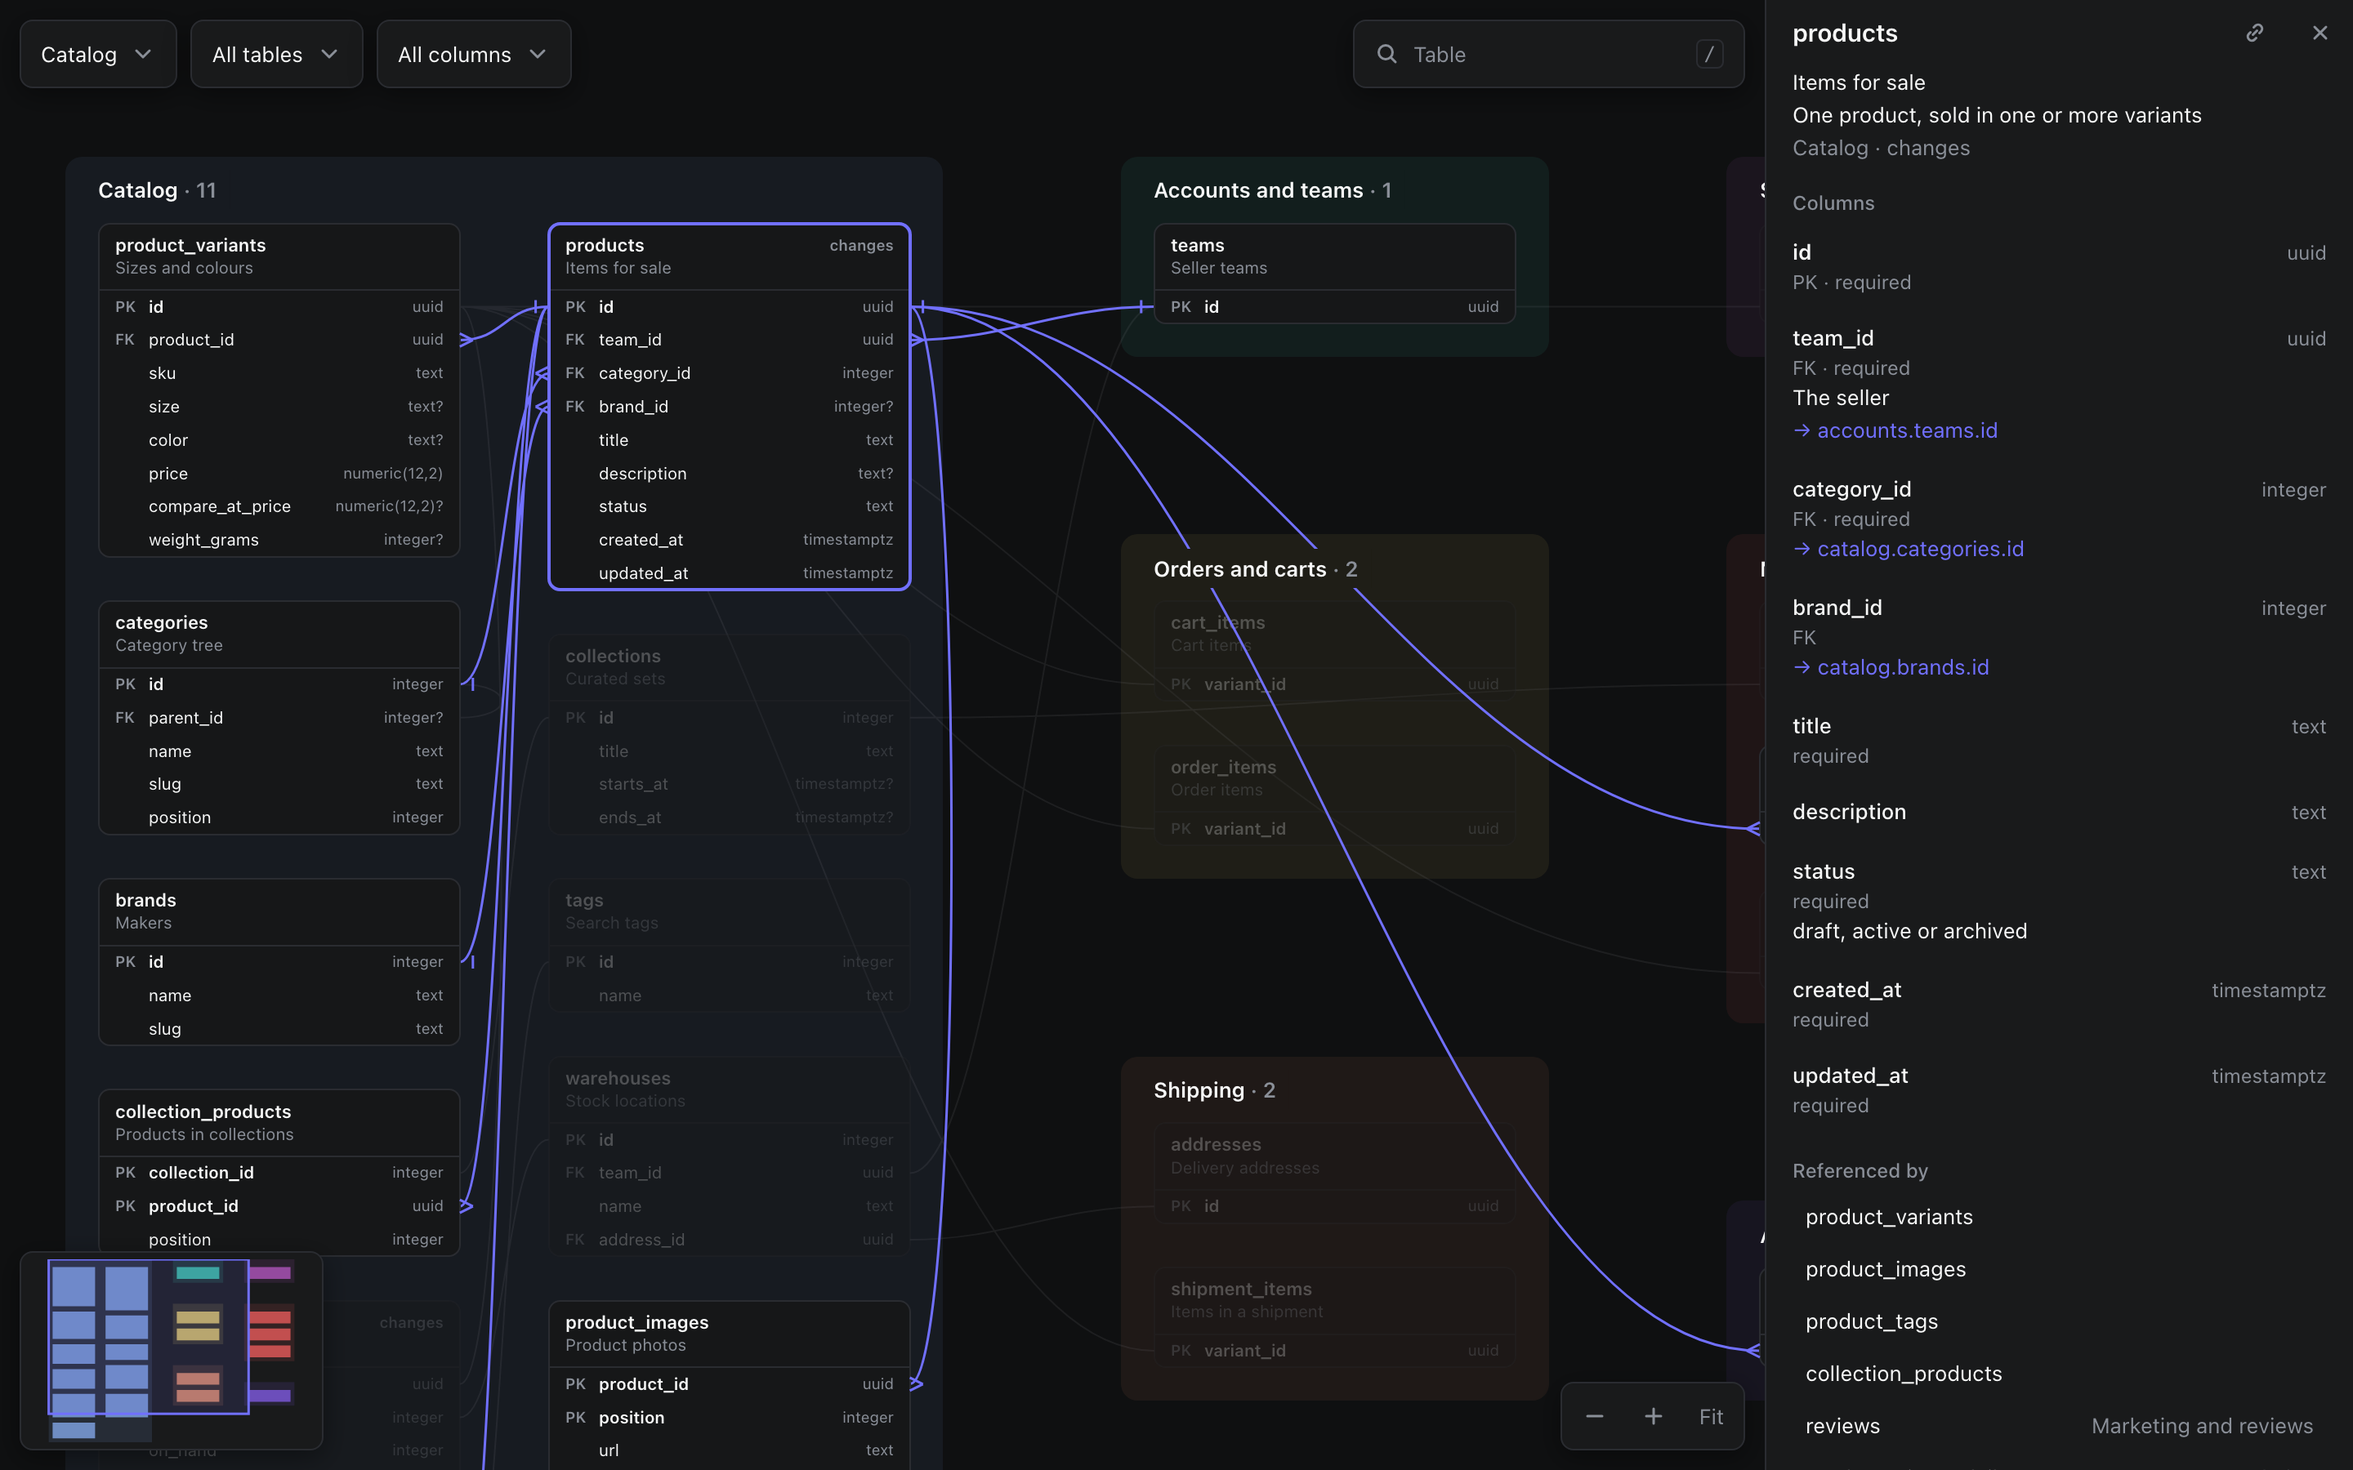
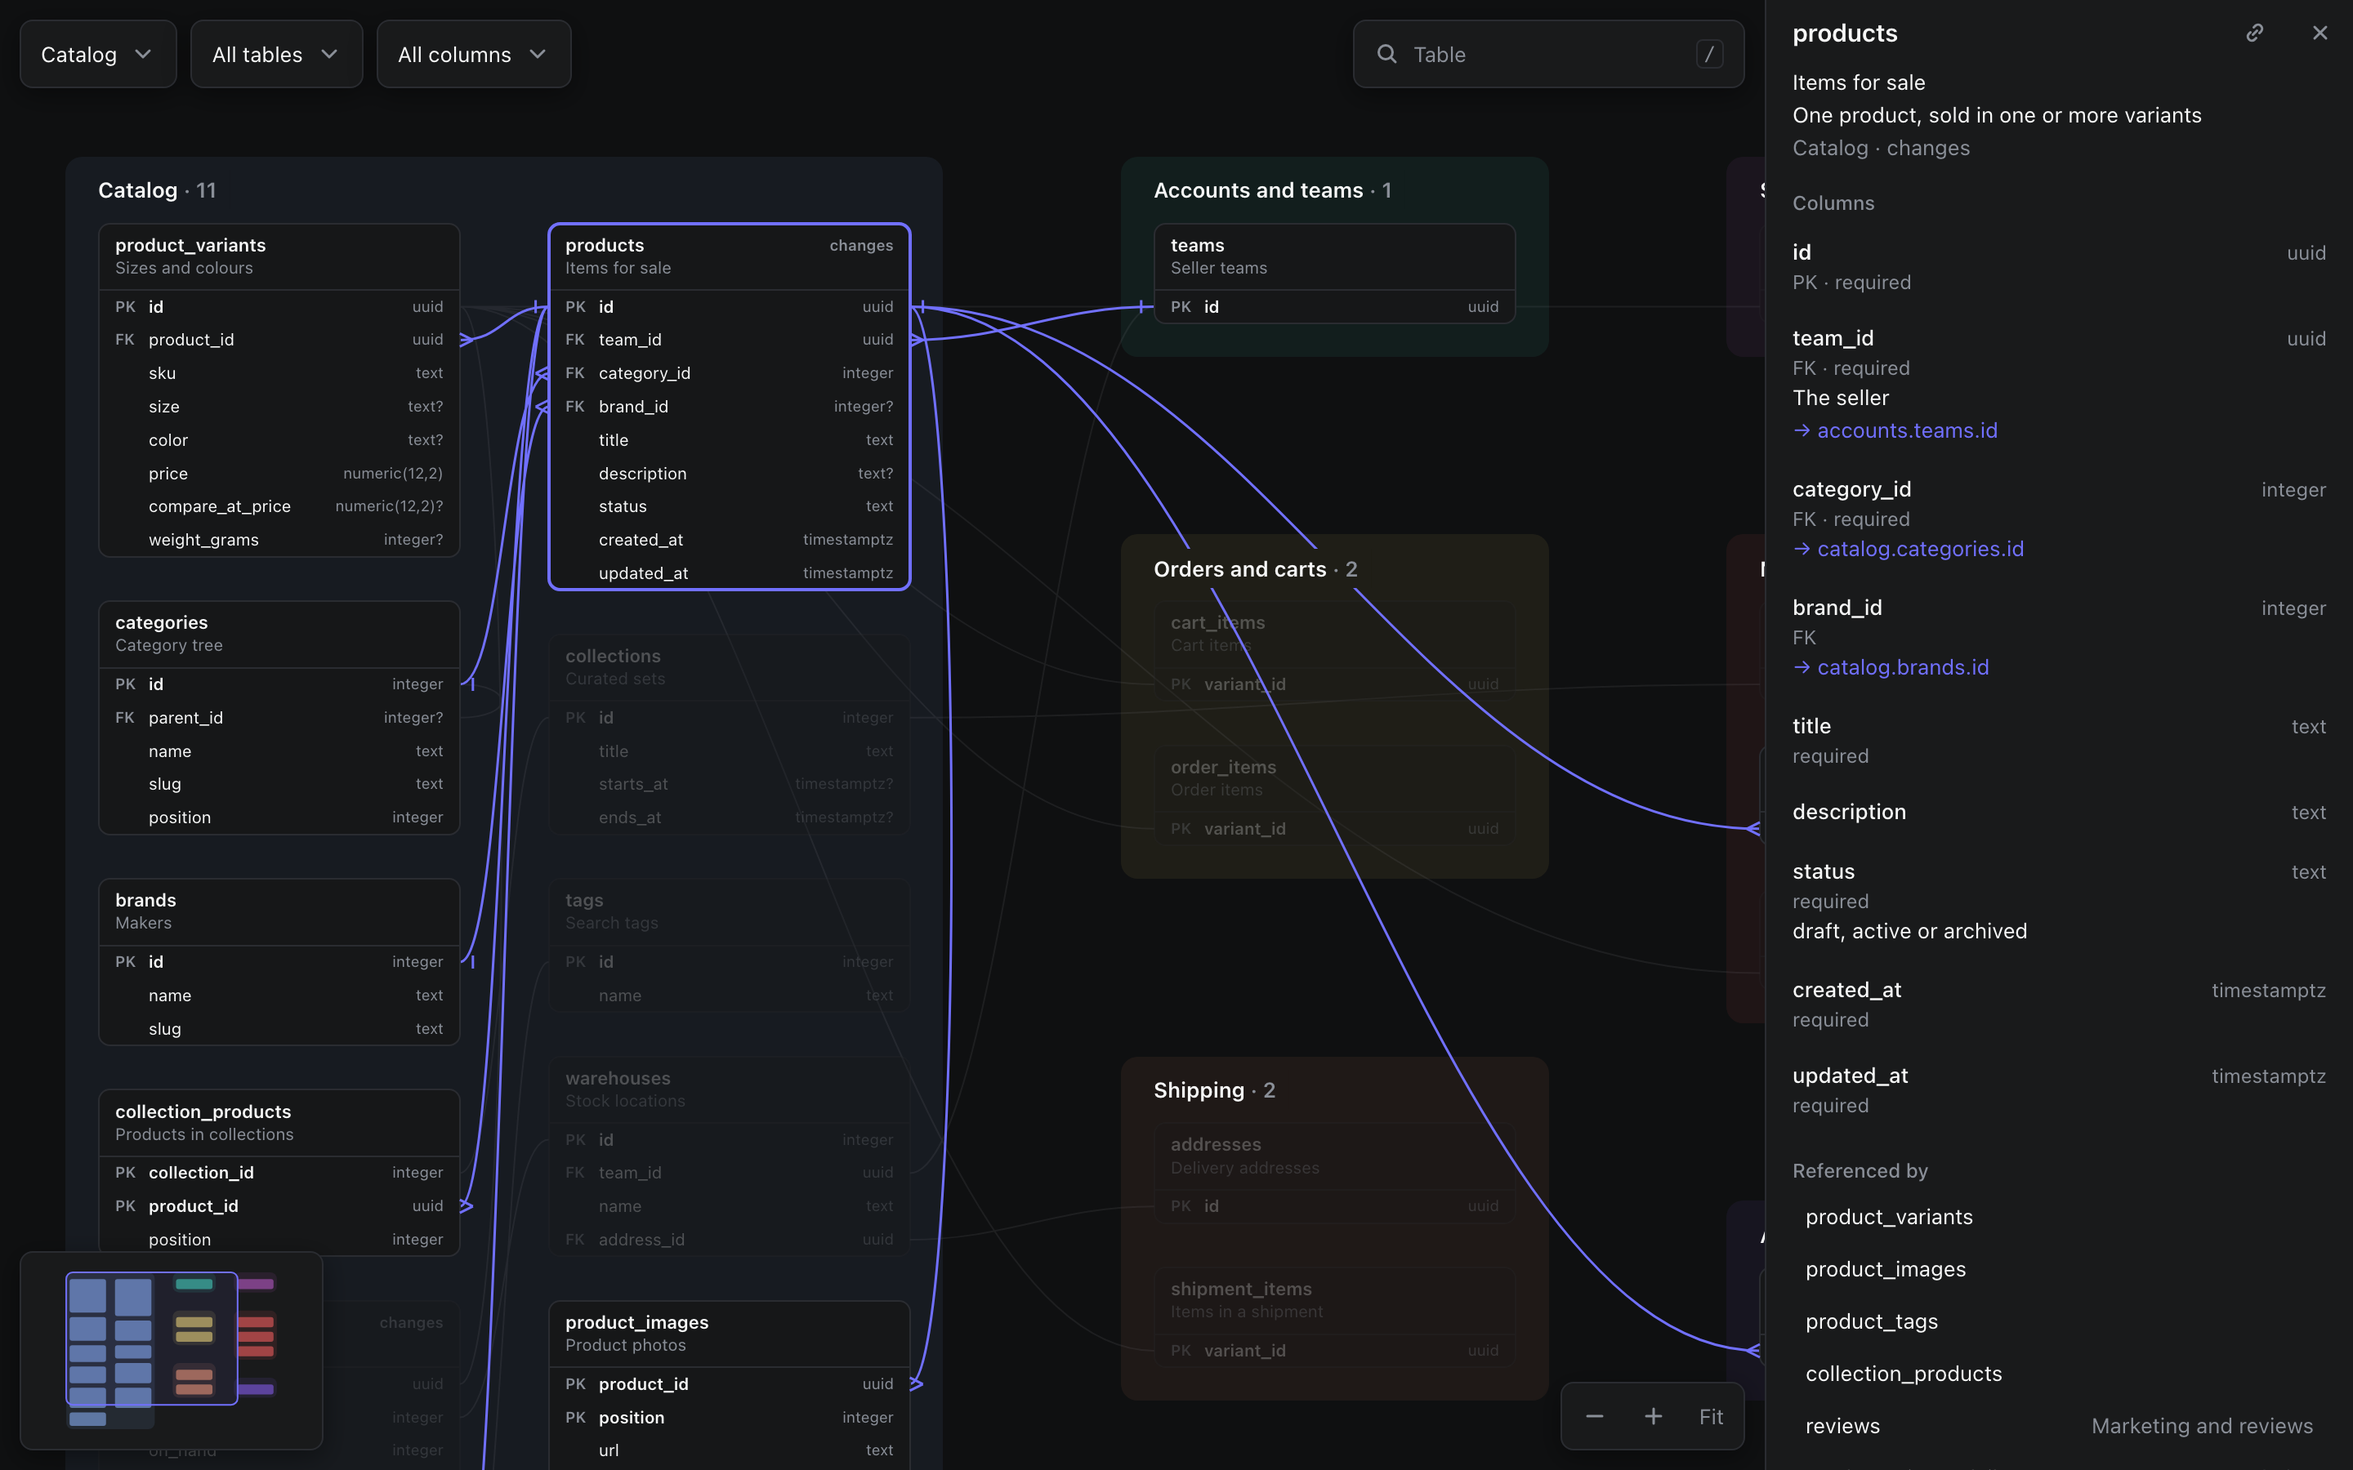
style(viewer): draw the minimap like the canvas
Module lanes with rounded corners, muted cards, an 8 px inset from the panel
edge, and a thin rounded viewport frame instead of square blocks and a thick
outline. Screenshots retaken.

Changed region(s): [[0.0, 0.84, 0.125, 0.9956]]

diff --git a/examples/storefront/diagram.html b/examples/storefront/diagram.html
@@ -373,6 +373,7 @@ const DIM_ALPHA = 0.25;
 const FONT = { table: 13, title: 12, status: 11, column: 12, type: 11, mark: 11 };
 const PAD_X = 12, MARK_W = 24;       // поле карточки слева и справа; колонка пометок PK / FK
 const NAME_Y = 16, TITLE_Y = 32;     // середины строк шапки: поле 8, имя 16, название 16, поле 8 — шапка 48
+const MINIMAP_PAD = 8;               // поле мини-карты от края её панели, в экранных пикселях
 const LABEL_H = 24, LABEL_PAD = 8;   // подпись области: высота и поле слева, в экранных пикселях
 
 const canvas = document.getElementById('canvas');
@@ -398,6 +399,7 @@ function readTheme() {
     muted: token('--color-text-muted'),
     accent: token('--color-accent'),
     // скругления и размер мини-карты — из тех же токенов, что у страницы: холст не держит своих копий чисел
+    radiusInner: parseFloat(token('--radius-inner')),
     radiusCard: parseFloat(token('--radius-outer')),
     radiusArea: parseFloat(token('--radius-area')),
     minimap: [parseFloat(token('--minimap-width')), parseFloat(token('--minimap-height'))],
@@ -529,9 +531,8 @@ const placed = [];                                    // уже нарисова
 const frame = { scale: 1, originX: 0, originY: 0, stroke: 0, cardRadius: 0, areaRadius: 0 };
 const snap = (value) => Math.round(value * frame.scale) / frame.scale;
 // скруглённый прямоугольник; в браузерах без roundRect — прямой
-const rounded = ctx.roundRect
-  ? (x, y, w, h, r) => ctx.roundRect(x, y, w, h, r)
-  : (x, y, w, h) => ctx.rect(x, y, w, h);
+const roundedIn = (c, x, y, w, h, r) => (c.roundRect ? c.roundRect(x, y, w, h, r) : c.rect(x, y, w, h));
+const rounded = (x, y, w, h, r) => roundedIn(ctx, x, y, w, h, r);
 const shape = (x, y, w, h) => rounded(x, y, w, h, frame.cardRadius);
 function visibleRows(t, y0, y1) {                     // первая и последняя строка карточки, что попадают в окно по высоте
   const { head, row } = CARD;
@@ -716,10 +717,13 @@ function drawMinimap(x0, y0, x1, y1) {
     minimapShown = !whole && minimap.clientWidth > 0;
   }
   if (!minimapShown) return;
+  // Та же схема, что на холсте, в уменьшенном виде: полосы модулей со скруглением, приглушённые карточки,
+  // поле 8 от края панели. Размеры — в пикселях мини-карты, поэтому делятся на её масштаб.
   const [cssW, cssH] = theme.minimap, dpr = view.dpr;
-  map.scale = Math.min(cssW / w, cssH / h);
+  map.scale = Math.min((cssW - 2 * MINIMAP_PAD) / w, (cssH - 2 * MINIMAP_PAD) / h);
   map.ox = (cssW - w * map.scale) / 2;
   map.oy = (cssH - h * map.scale) / 2;
+  const px = 1 / map.scale;
   const key = [diagram.code, diagram.mode, theme.background, dpr].join('|');
   if (key !== minimapKey) {                           // слой рисуется заново, только когда он изменился
     minimapKey = key;
@@ -730,16 +734,18 @@ function drawMinimap(x0, y0, x1, y1) {
     layer.fillStyle = theme.panel;
     layer.fillRect(0, 0, cssW, cssH);
     layer.setTransform(dpr * map.scale, 0, 0, dpr * map.scale, dpr * map.ox, dpr * map.oy);
-    layer.globalAlpha = 0.12;
+    layer.globalAlpha = 0.1;                          // полосы модулей, как на холсте
     for (const area of diagram.areas) {
       layer.fillStyle = moduleColor(area.module);
-      layer.fillRect(area.x, area.y, area.w, area.h);
+      layer.beginPath();
+      roundedIn(layer, area.x, area.y, area.w, area.h, theme.radiusInner * px);
+      layer.fill();
     }
-    layer.globalAlpha = 0.7;
+    layer.globalAlpha = 0.55;                         // карточки приглушены, как на общем виде холста
     for (const [color, list] of byColor(diagram.tables, diagram.allIndexes)) {
       layer.fillStyle = color;
       layer.beginPath();
-      for (const i of list) { const t = diagram.tables[i]; layer.rect(t.x, t.y, CARD.width, t.h); }
+      for (const i of list) { const t = diagram.tables[i]; roundedIn(layer, t.x, t.y, CARD.width, t.h, 1.5 * px); }
       layer.fill();
     }
   }
@@ -748,13 +754,15 @@ function drawMinimap(x0, y0, x1, y1) {
   mctx.drawImage(minimapLayer, 0, 0);
   mctx.setTransform(dpr * map.scale, 0, 0, dpr * map.scale, dpr * map.ox, dpr * map.oy);
   const vx = Math.max(0, x0), vy = Math.max(0, y0), vw = Math.min(w, x1) - vx, vh = Math.min(h, y1) - vy;
-  mctx.globalAlpha = 0.12;
+  mctx.beginPath();                                   // рамка окна: тонкая, скруглённая, как фокус у панелей
+  roundedIn(mctx, vx, vy, vw, vh, theme.radiusInner * px);
+  mctx.globalAlpha = 0.08;
   mctx.fillStyle = theme.accent;
-  mctx.fillRect(vx, vy, vw, vh);
+  mctx.fill();
   mctx.globalAlpha = 1;
   mctx.strokeStyle = theme.accent;
-  mctx.lineWidth = 1.5 / map.scale;
-  mctx.strokeRect(vx, vy, vw, vh);
+  mctx.lineWidth = px;
+  mctx.stroke();
 }
 let minimapDrag = null;                               // рамка мини-карты на экране, пока её тянут: меряется один раз
 function minimapGo(event) {                           // середина окна — в точку мини-карты под указателем

diff --git a/skills/schemap/scripts/viewer.template.html b/skills/schemap/scripts/viewer.template.html
@@ -365,6 +365,7 @@ const DIM_ALPHA = 0.25;
 const FONT = { table: 13, title: 12, status: 11, column: 12, type: 11, mark: 11 };
 const PAD_X = 12, MARK_W = 24;       // поле карточки слева и справа; колонка пометок PK / FK
 const NAME_Y = 16, TITLE_Y = 32;     // середины строк шапки: поле 8, имя 16, название 16, поле 8 — шапка 48
+const MINIMAP_PAD = 8;               // поле мини-карты от края её панели, в экранных пикселях
 const LABEL_H = 24, LABEL_PAD = 8;   // подпись области: высота и поле слева, в экранных пикселях
 
 const canvas = document.getElementById('canvas');
@@ -390,6 +391,7 @@ function readTheme() {
     muted: token('--color-text-muted'),
     accent: token('--color-accent'),
     // скругления и размер мини-карты — из тех же токенов, что у страницы: холст не держит своих копий чисел
+    radiusInner: parseFloat(token('--radius-inner')),
     radiusCard: parseFloat(token('--radius-outer')),
     radiusArea: parseFloat(token('--radius-area')),
     minimap: [parseFloat(token('--minimap-width')), parseFloat(token('--minimap-height'))],
@@ -521,9 +523,8 @@ const placed = [];                                    // уже нарисова
 const frame = { scale: 1, originX: 0, originY: 0, stroke: 0, cardRadius: 0, areaRadius: 0 };
 const snap = (value) => Math.round(value * frame.scale) / frame.scale;
 // скруглённый прямоугольник; в браузерах без roundRect — прямой
-const rounded = ctx.roundRect
-  ? (x, y, w, h, r) => ctx.roundRect(x, y, w, h, r)
-  : (x, y, w, h) => ctx.rect(x, y, w, h);
+const roundedIn = (c, x, y, w, h, r) => (c.roundRect ? c.roundRect(x, y, w, h, r) : c.rect(x, y, w, h));
+const rounded = (x, y, w, h, r) => roundedIn(ctx, x, y, w, h, r);
 const shape = (x, y, w, h) => rounded(x, y, w, h, frame.cardRadius);
 function visibleRows(t, y0, y1) {                     // первая и последняя строка карточки, что попадают в окно по высоте
   const { head, row } = CARD;
@@ -708,10 +709,13 @@ function drawMinimap(x0, y0, x1, y1) {
     minimapShown = !whole && minimap.clientWidth > 0;
   }
   if (!minimapShown) return;
+  // Та же схема, что на холсте, в уменьшенном виде: полосы модулей со скруглением, приглушённые карточки,
+  // поле 8 от края панели. Размеры — в пикселях мини-карты, поэтому делятся на её масштаб.
   const [cssW, cssH] = theme.minimap, dpr = view.dpr;
-  map.scale = Math.min(cssW / w, cssH / h);
+  map.scale = Math.min((cssW - 2 * MINIMAP_PAD) / w, (cssH - 2 * MINIMAP_PAD) / h);
   map.ox = (cssW - w * map.scale) / 2;
   map.oy = (cssH - h * map.scale) / 2;
+  const px = 1 / map.scale;
   const key = [diagram.code, diagram.mode, theme.background, dpr].join('|');
   if (key !== minimapKey) {                           // слой рисуется заново, только когда он изменился
     minimapKey = key;
@@ -722,16 +726,18 @@ function drawMinimap(x0, y0, x1, y1) {
     layer.fillStyle = theme.panel;
     layer.fillRect(0, 0, cssW, cssH);
     layer.setTransform(dpr * map.scale, 0, 0, dpr * map.scale, dpr * map.ox, dpr * map.oy);
-    layer.globalAlpha = 0.12;
+    layer.globalAlpha = 0.1;                          // полосы модулей, как на холсте
     for (const area of diagram.areas) {
       layer.fillStyle = moduleColor(area.module);
-      layer.fillRect(area.x, area.y, area.w, area.h);
+      layer.beginPath();
+      roundedIn(layer, area.x, area.y, area.w, area.h, theme.radiusInner * px);
+      layer.fill();
     }
-    layer.globalAlpha = 0.7;
+    layer.globalAlpha = 0.55;                         // карточки приглушены, как на общем виде холста
     for (const [color, list] of byColor(diagram.tables, diagram.allIndexes)) {
       layer.fillStyle = color;
       layer.beginPath();
-      for (const i of list) { const t = diagram.tables[i]; layer.rect(t.x, t.y, CARD.width, t.h); }
+      for (const i of list) { const t = diagram.tables[i]; roundedIn(layer, t.x, t.y, CARD.width, t.h, 1.5 * px); }
       layer.fill();
     }
   }
@@ -740,13 +746,15 @@ function drawMinimap(x0, y0, x1, y1) {
   mctx.drawImage(minimapLayer, 0, 0);
   mctx.setTransform(dpr * map.scale, 0, 0, dpr * map.scale, dpr * map.ox, dpr * map.oy);
   const vx = Math.max(0, x0), vy = Math.max(0, y0), vw = Math.min(w, x1) - vx, vh = Math.min(h, y1) - vy;
-  mctx.globalAlpha = 0.12;
+  mctx.beginPath();                                   // рамка окна: тонкая, скруглённая, как фокус у панелей
+  roundedIn(mctx, vx, vy, vw, vh, theme.radiusInner * px);
+  mctx.globalAlpha = 0.08;
   mctx.fillStyle = theme.accent;
-  mctx.fillRect(vx, vy, vw, vh);
+  mctx.fill();
   mctx.globalAlpha = 1;
   mctx.strokeStyle = theme.accent;
-  mctx.lineWidth = 1.5 / map.scale;
-  mctx.strokeRect(vx, vy, vw, vh);
+  mctx.lineWidth = px;
+  mctx.stroke();
 }
 let minimapDrag = null;                               // рамка мини-карты на экране, пока её тянут: меряется один раз
 function minimapGo(event) {                           // середина окна — в точку мини-карты под указателем
